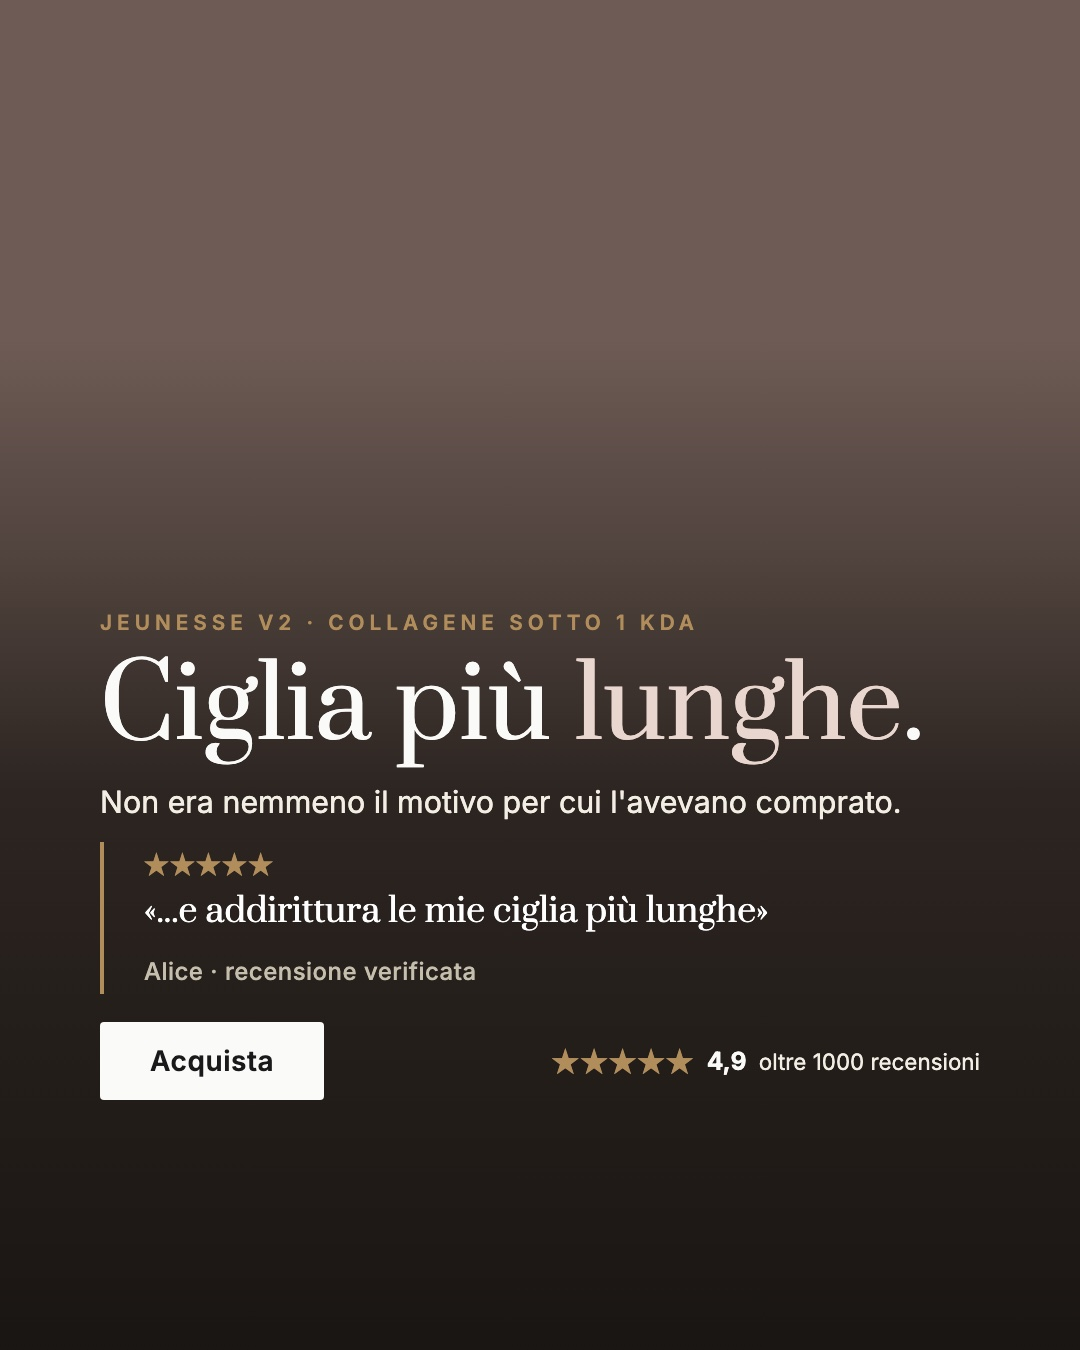
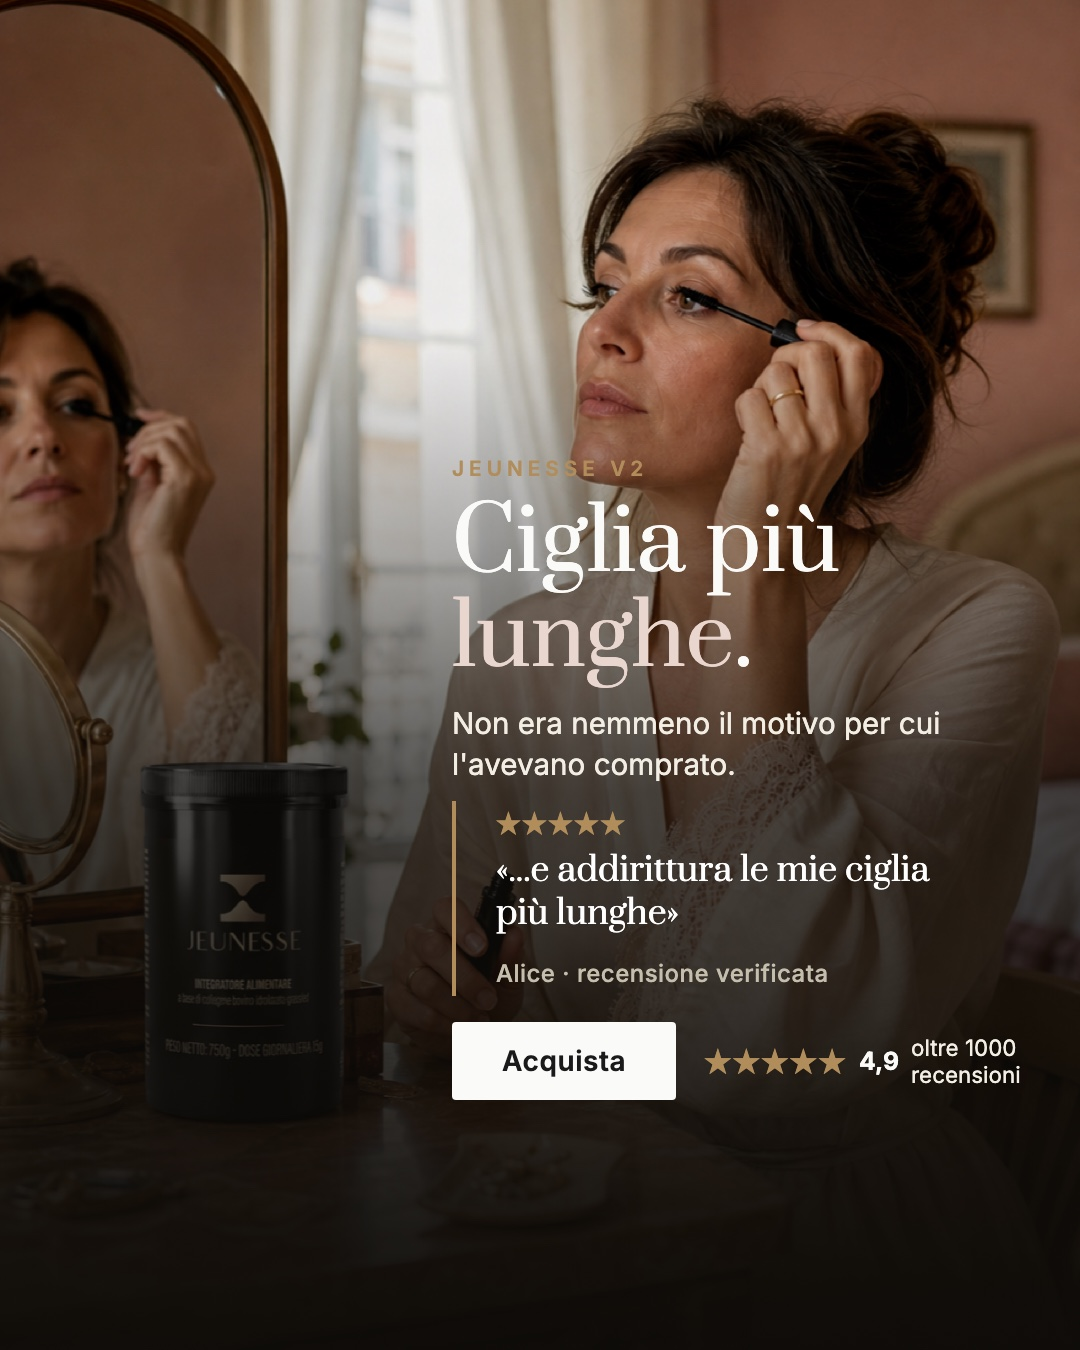
ads: batch #1006 completo, foto AI montate (213, 214, 216) — pronto da caricare

diff --git a/ads/batch-1006.html b/ads/batch-1006.html
@@ -76,7 +76,7 @@
 <div class="wrap">
   <div class="eyebrow">Ads OS · Jeunesse V2 · Launch kit</div>
   <h1>Batch #1006</h1>
-  <div class="status">⏳ 7 pronte · 3 in attesa delle foto AI (#213, #214, #216)</div>
+  <div class="status" style="color:var(--ok);background:color-mix(in srgb,var(--ok) 15%,transparent)">✓ Montato e verificato — pronto da caricare su Meta</div>
   <p class="lede"><b>10 creatività (#210-#219), 10 sistemi grafici nuovi.</b> Il batch dei territori esclusivi Jeunesse: kilodalton, studio clinico, ciglia, capelli+unghie, prezzo bloccato. Primo offer-first banner dell'ecosistema. Solo 3 immagini AI, tutte con persone e prodotto in mano.</p>
   <div class="rules">
     <div class="rule"><b>Testo:</b> carica A + B + C su ogni inserzione</div>
@@ -85,8 +85,8 @@
     <div class="rule"><b>Pubblici:</b> cold esclude acquirenti Youth recenti · #217 SOLO retargeting Youth · #219 SOLO acquirenti Jeunesse V1</div>
   </div>
 
-  <h2>1 · Istruzione immagini per ChatGPT</h2>
-  <p class="sec-sub">Solo 3 immagini, tutte con persone e barattolo in mano/in scena. Copia e incolla in ChatGPT co-work: legge il packshot da <code>prodotti/</code> e salva in <code>creatives/asset/</code>. Quando ha finito, dimmi "caricate" e rimonto i PNG finali.</p>
+  <h2>1 · Istruzione immagini per ChatGPT — ✓ fatte (19/8)</h2>
+  <p class="sec-sub">Le 3 foto sono state generate, montate e verificate. L'istruzione resta qui sotto solo se serve rigenerarne una (stesso nome file, poi rimonto).</p>
   <div class="promptcard">
     <div><div class="pc-t">Istruzione unica — 3 immagini in batch</div><div class="pc-d">Percorsi assoluti, barattolo nero JEUNESSE identico al riferimento in ogni scena, espressioni serene, niente altro testo nelle foto.</div></div>
     <button class="cbtn big" data-src="istruzione">Copia l'istruzione completa</button>
@@ -211,7 +211,7 @@ Sono esperienze riportate, non promesse. Ma sono tante, e si somigliano.
   </div>
 
   <h2>4 · Le creatività</h2>
-  <p class="sec-sub">7 definitive, 3 con placeholder in attesa delle foto AI (#213, #214, #216: la composizione è già quella, cambia solo lo sfondo). Clic sull'immagine per la piena risoluzione. Su Meta: 3 testi + 2 titoli + descrizione + CTA Acquista.</p>
+  <p class="sec-sub">10 definitive, tutte renderizzate e verificate. Clic sull'immagine per la piena risoluzione, Scarica per il download. Su Meta: 3 testi + 2 titoli + descrizione + CTA Acquista.</p>
   <div class="kits">
     <div class="kit">
       <div class="thumb"><a href="img/1006/210.jpg" target="_blank"><img src="img/1006/210.jpg" alt="#210" loading="lazy"></a><a class="dl" href="img/1006/210.jpg" download="210_jeunesse_domanda_1080x1350.jpg">&#11015; Scarica immagine</a></div>
@@ -246,7 +246,7 @@ Sono esperienze riportate, non promesse. Ma sono tante, e si somigliano.
     <div class="kit">
       <div class="thumb"><a href="img/1006/213.jpg" target="_blank"><img src="img/1006/213.jpg" alt="#213" loading="lazy"></a><a class="dl" href="img/1006/213.jpg" download="213_jeunesse_capelli_1080x1350.jpg">&#11015; Scarica immagine</a></div>
       <div class="fields">
-        <div class="fhead"><span class="num">#213</span><span class="chip">Solution</span><span class="chip wait">⏳ foto AI in arrivo</span></div>
+        <div class="fhead"><span class="num">#213</span><span class="chip">Solution</span><span class="chip">Barattolo in mano · capelli e unghie</span></div>
         <div class="meta-row" style="margin-top:2px"><span class="flabel">Nome ad</span><code class="adname">213 | static | w+45 capelli unghie in mano</code><button class="cbtn sm" data-copy="213 | static | w+45 capelli unghie in mano">Copia</button></div>
         <div class="meta-row"><span class="flabel">Testo principale (tutti e 3)</span><button class="cbtn sm" data-src="tA">Copia A</button><button class="cbtn sm" data-src="tB">Copia B</button><button class="cbtn sm" data-src="tC">Copia C</button></div>
         <div><div class="meta-row" style="margin-top:0;margin-bottom:6px"><span class="flabel">Titoli</span></div><div class="titoli"><span class="tt">13 ingredienti, un misurino al giorno <button class="cbtn sm" data-copy="13 ingredienti, un misurino al giorno">Copia</button></span><span class="tt">12 g di collagene e 12 nutrienti <button class="cbtn sm" data-copy="12 g di collagene e 12 nutrienti">Copia</button></span></div></div>
@@ -256,7 +256,7 @@ Sono esperienze riportate, non promesse. Ma sono tante, e si somigliano.
     <div class="kit">
       <div class="thumb"><a href="img/1006/214.jpg" target="_blank"><img src="img/1006/214.jpg" alt="#214" loading="lazy"></a><a class="dl" href="img/1006/214.jpg" download="214_jeunesse_ciglia_1080x1350.jpg">&#11015; Scarica immagine</a></div>
       <div class="fields">
-        <div class="fhead"><span class="num">#214</span><span class="chip">Product</span><span class="chip wait">⏳ foto AI in arrivo</span></div>
+        <div class="fhead"><span class="num">#214</span><span class="chip">Product</span><span class="chip">Vanity · recensione ciglia</span></div>
         <div class="meta-row" style="margin-top:2px"><span class="flabel">Nome ad</span><code class="adname">214 | static | w+40 ciglia</code><button class="cbtn sm" data-copy="214 | static | w+40 ciglia">Copia</button></div>
         <div class="meta-row"><span class="flabel">Testo principale (tutti e 3)</span><button class="cbtn sm" data-src="tA">Copia A</button><button class="cbtn sm" data-src="tB">Copia B</button><button class="cbtn sm" data-src="tC">Copia C</button></div>
         <div><div class="meta-row" style="margin-top:0;margin-bottom:6px"><span class="flabel">Titoli</span></div><div class="titoli"><span class="tt">4,9 su oltre 1000 recensioni <button class="cbtn sm" data-copy="4,9 su oltre 1000 recensioni">Copia</button></span><span class="tt">Il collagene più avanzato della gamma <button class="cbtn sm" data-copy="Il collagene più avanzato della gamma">Copia</button></span></div></div>
@@ -276,7 +276,7 @@ Sono esperienze riportate, non promesse. Ma sono tante, e si somigliano.
     <div class="kit">
       <div class="thumb"><a href="img/1006/216.jpg" target="_blank"><img src="img/1006/216.jpg" alt="#216" loading="lazy"></a><a class="dl" href="img/1006/216.jpg" download="216_jeunesse_gioiello_1080x1350.jpg">&#11015; Scarica immagine</a></div>
       <div class="fields">
-        <div class="fhead"><span class="num">#216</span><span class="chip">Product</span><span class="chip wait">⏳ foto AI in arrivo</span></div>
+        <div class="fhead"><span class="num">#216</span><span class="chip">Product</span><span class="chip">In uso su marmo · gioiello</span></div>
         <div class="meta-row" style="margin-top:2px"><span class="flabel">Nome ad</span><code class="adname">216 | static | gen+45 gioiello in uso</code><button class="cbtn sm" data-copy="216 | static | gen+45 gioiello in uso">Copia</button></div>
         <div class="meta-row"><span class="flabel">Testo principale (tutti e 3)</span><button class="cbtn sm" data-src="tA">Copia A</button><button class="cbtn sm" data-src="tB">Copia B</button><button class="cbtn sm" data-src="tC">Copia C</button></div>
         <div><div class="meta-row" style="margin-top:0;margin-bottom:6px"><span class="flabel">Titoli</span></div><div class="titoli"><span class="tt">13 ingredienti, un misurino al giorno <button class="cbtn sm" data-copy="13 ingredienti, un misurino al giorno">Copia</button></span><span class="tt">12 g di collagene e 12 nutrienti <button class="cbtn sm" data-copy="12 g di collagene e 12 nutrienti">Copia</button></span></div></div>
@@ -317,7 +317,7 @@ Sono esperienze riportate, non promesse. Ma sono tante, e si somigliano.
 
   <h2>5 · Checklist pre-carico</h2>
   <div class="next">
-    <div class="step"><h3>1. Foto AI (3)</h3><p>Genera con l'istruzione qui sopra (213, 214, 216). Quando sono in <code>creatives/asset/</code>, dimmi "caricate": rimonto e aggiorno questa pagina.</p></div>
+    <div class="step"><h3>1. Foto AI ✓</h3><p>Generate, montate e verificate il 19/8. Qui sopra con download.</p></div>
     <div class="step"><h3>2. Stock ✓</h3><p>606 pezzi verificati da WooCommerce il 12/8 (~7 mesi di copertura). Nessun batch Jeunesse precedente live da pausare.</p></div>
     <div class="step"><h3>3. Pubblici</h3><p>Cold: escludi acquirenti Youth recenti. #217 solo retargeting acquirenti Youth, #219 solo acquirenti Jeunesse V1.</p></div>
     <div class="step"><h3>4. Landing ✓</h3><p>Verificata il 19/8: HTTP 200 senza redirect, 129 barrato / 99 in pagina.</p></div>

diff --git a/ads/index.html b/ads/index.html
@@ -27,7 +27,7 @@
 <div class="wrap">
   <div class="eyebrow">Ads OS · Paleocomplex</div>
   <h1>Batch</h1>
-  <a class="card" href="batch-1006.html"><span><span class="t">#1006 — Jeunesse V2</span><span class="d">10 creatività #210-#219 · kilodalton, studio clinico, ciglia · primo offer-first banner</span></span><span class="badge prod">7 pronte · 3 attendono foto</span></a>
+  <a class="card" href="batch-1006.html"><span><span class="t">#1006 — Jeunesse V2</span><span class="d">10 creatività #210-#219 · kilodalton, studio clinico, ciglia · primo offer-first banner</span></span><span class="badge live">Pronto da caricare</span></a>
   <a class="card" href="batch-1005.html"><span><span class="t">#1005 — Elisir</span><span class="d">9 creatività #200-#208 renderizzate · own the objection "Sì, è caro" · 9 look distinti</span></span><span class="badge live">Pronto da caricare</span></a>
   <a class="card" href="batch-1004.html"><span><span class="t">#1004 — Youth</span><span class="d">10 creatività #190-#199 renderizzate · articolazioni + pelle · 3 testi verificati</span></span><span class="badge live">Pronto da caricare</span></a>
   <a class="card" href="batch-1003.html"><span><span class="t">#1003 — Paleocomplex</span><span class="d">7 creatività #180-#186 · 3 testi condivisi · launch kit completo</span></span><span class="badge live">Live su Meta</span></a>
